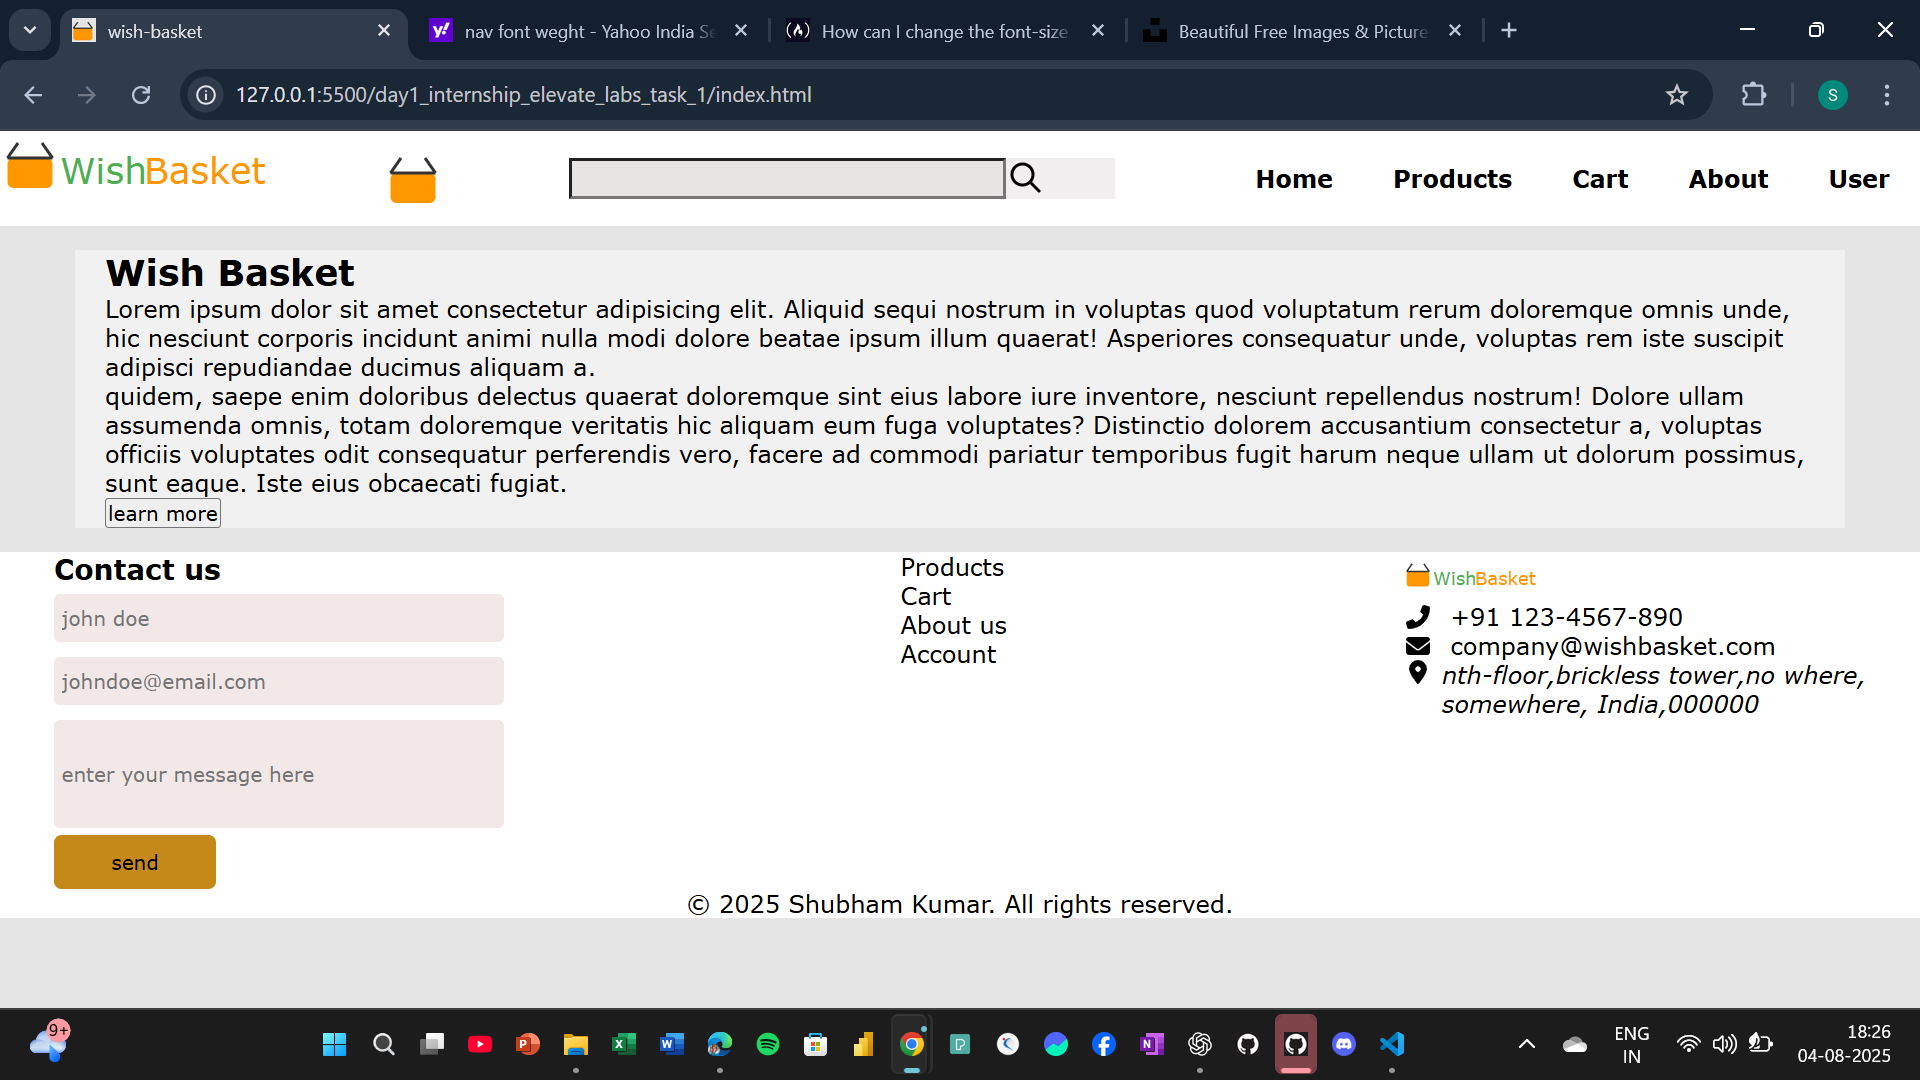
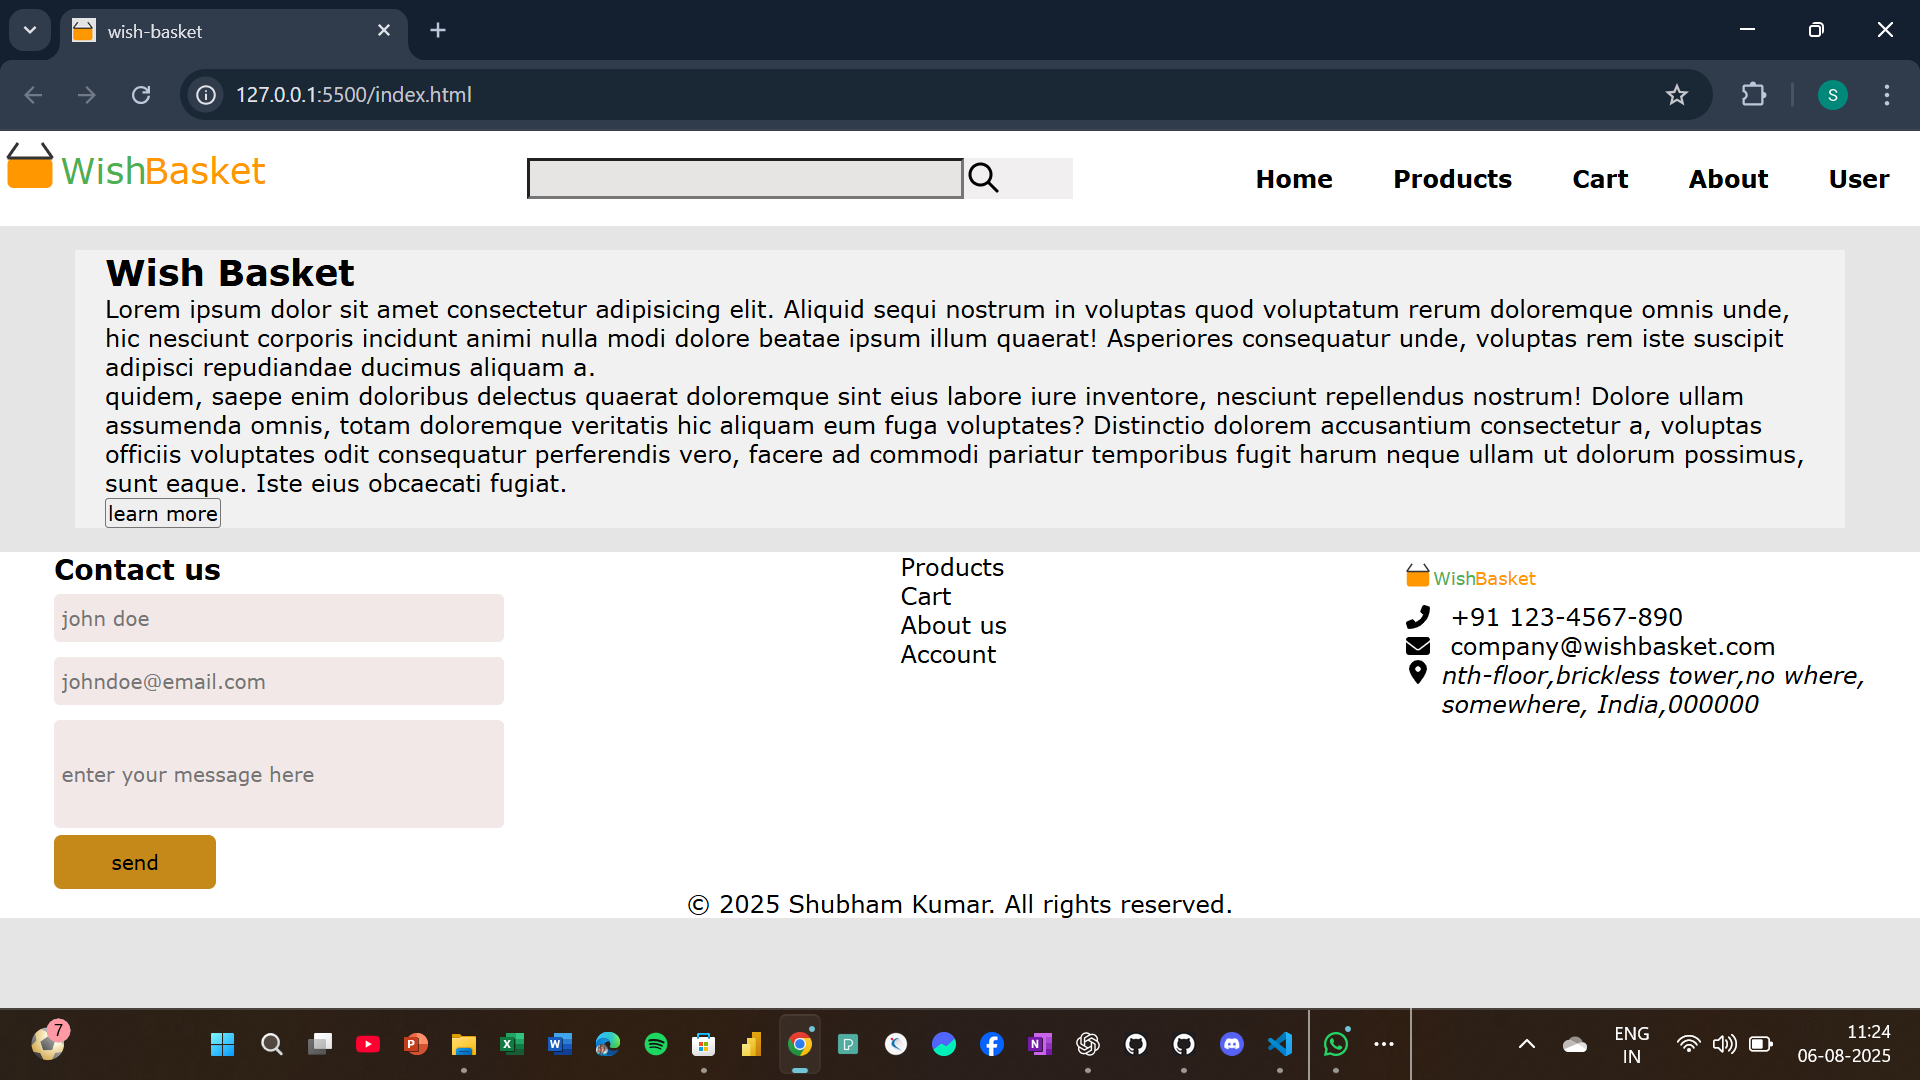
updated

diff --git a/index.html b/index.html
@@ -32,7 +32,7 @@
           Basket
         </text>
       </svg>
-      <svg id="media-logo" width="50" height="50" xmlns="http://www.w3.org/2000/svg">
+      <svg  id="media-logo" width="50" height="50" xmlns="http://www.w3.org/2000/svg">
         <!-- Basket Icon -->
         <g transform="translate(0, 8)">
           <rect x="5" y="10" width="30" height="20" fill="#FF9800" rx="4" />

diff --git a/index.css b/index.css
@@ -14,6 +14,9 @@ header {
   justify-content: space-between;
   background-color: #fff;
 }
+#media-logo{
+  display:none;
+}
 #search-div {
   display: flex;
   width: 364px;
